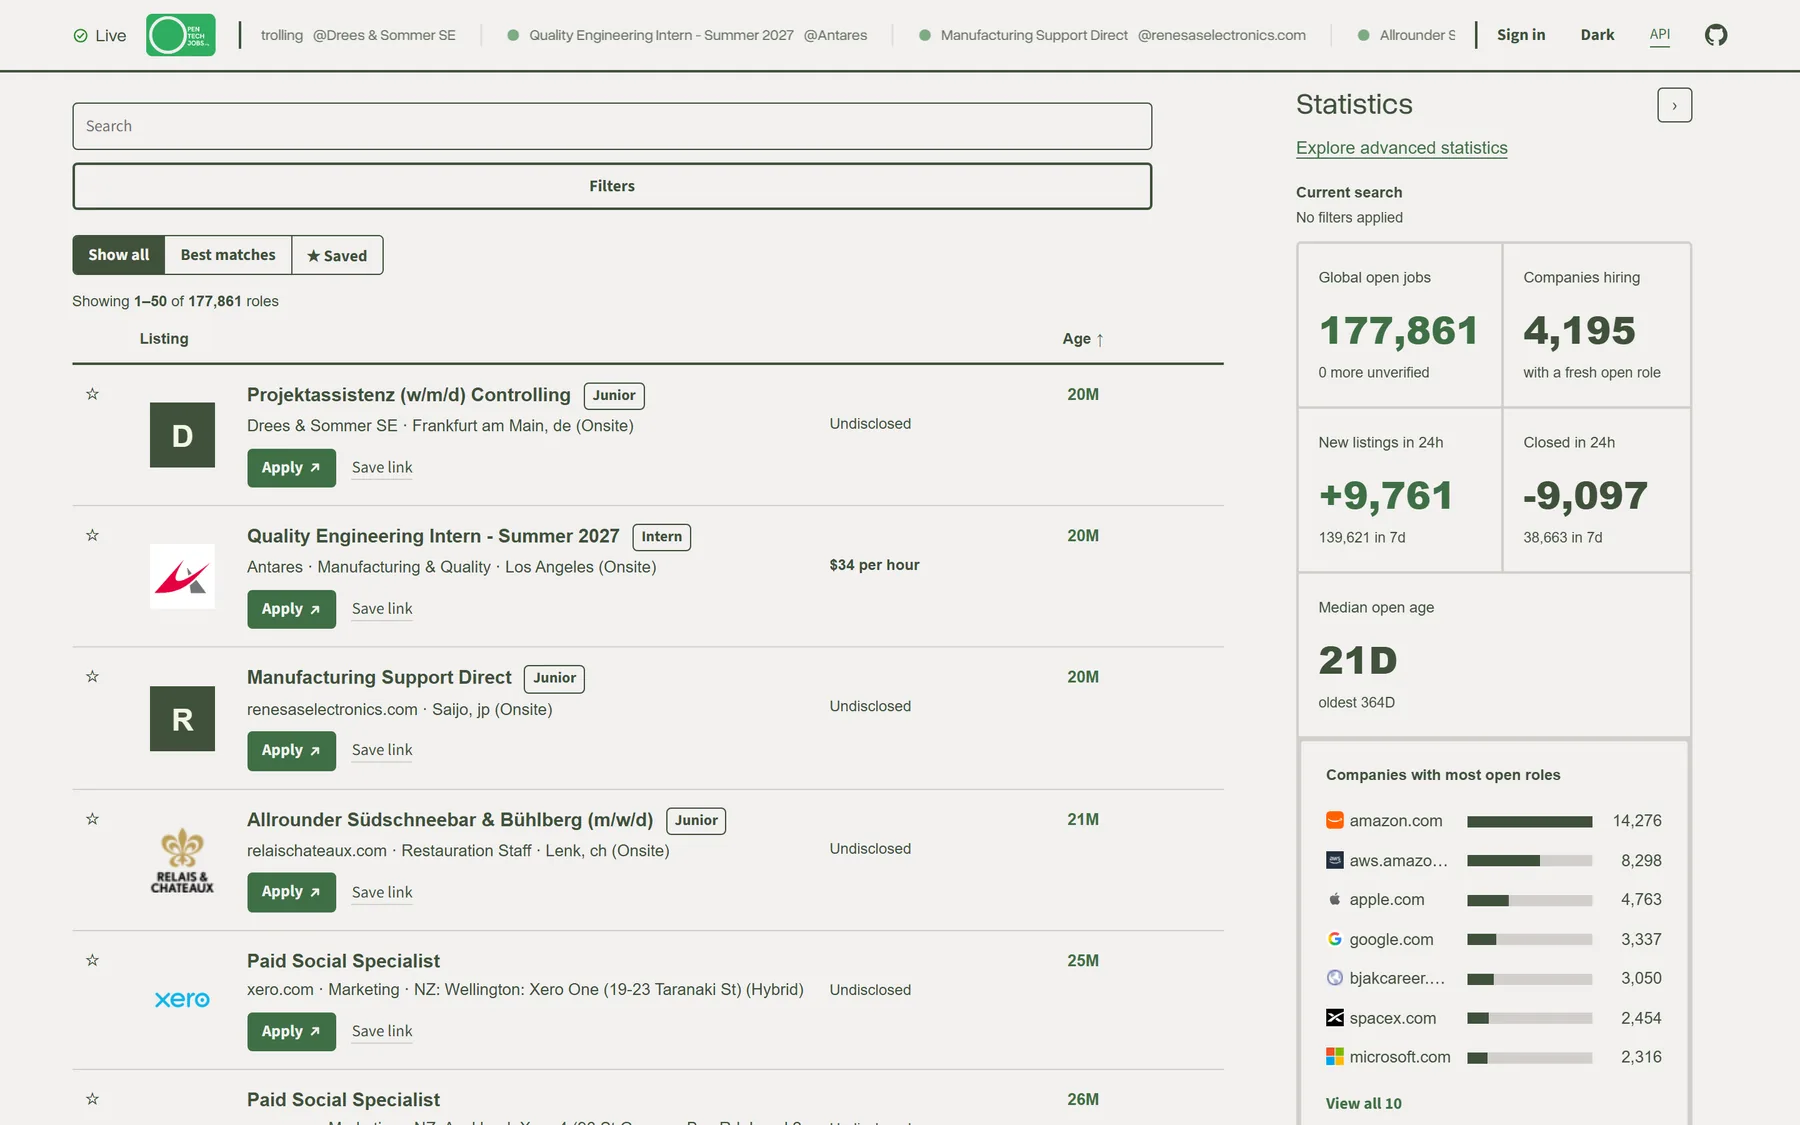
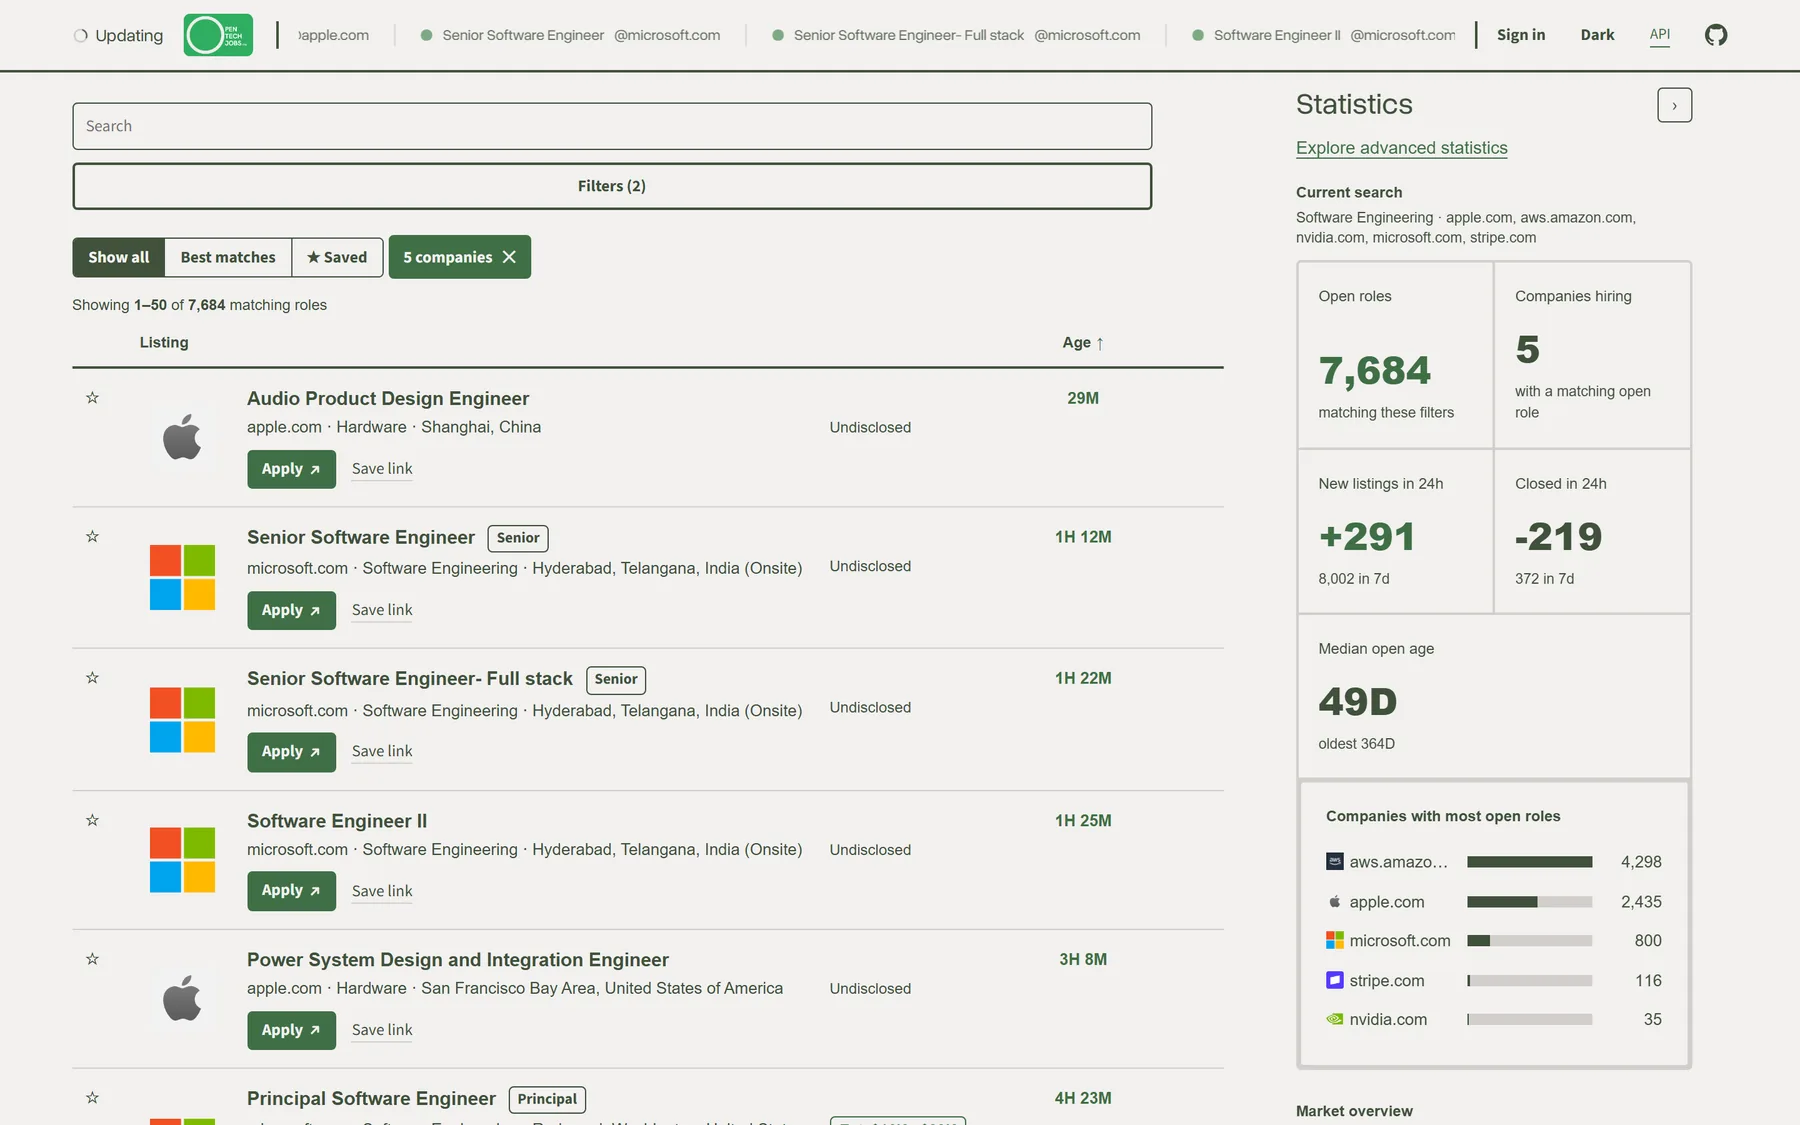
Keep content clear of a phone's cutout, and show real jobs in the shot
Every page now asks for the whole screen (viewport-fit=cover), so the
green band reaches the true edge instead of stopping at the browser's
own inset. --edge is the gutter or the screen's cutout inset, whichever
is wider, and everything that runs to the page edge uses it: the
container, the hero rows and the band's negative margin. The job drawer
and the account sheet pad against the cutout and the home indicator too.
Any phone that reports an inset, not only an iPhone.

The device screenshots were whatever was newest, which turned out to be
Apple retail work. They now show engineering roles at Apple, Microsoft,
AWS, Nvidia and Stripe.

diff --git a/frontend/style.css b/frontend/style.css
@@ -102,6 +102,9 @@
   /* Side padding for .workspace/.container. Scales with viewport
      (20px floor, 64px ceiling) instead of a fixed max-width box. */
   --gutter: clamp(20px, 4vw, 64px);
+  /* The gutter, or the screen's own cutout inset where that is wider.
+     Used by anything whose content runs to the page edge. */
+  --edge: max(var(--gutter), env(safe-area-inset-left), env(safe-area-inset-right));
   --rule: 2px;
 
   /* Forces native chrome (input caret, scrollbars) to follow OUR toggle
@@ -200,7 +203,13 @@ button, input, select {
 }
 
 .container {
-  padding: 0 var(--gutter);
+  /* viewport-fit=cover lets the page reach the true screen edge, so the
+     gutter has to clear the cutout itself: on a notched phone in
+     landscape the inset is larger than the gutter, and in portrait it is
+     zero and this is just the gutter. Any phone with a cutout, not only
+     an iPhone. */
+  padding-left: max(var(--gutter), env(safe-area-inset-left));
+  padding-right: max(var(--gutter), env(safe-area-inset-right));
 }
 
 .section {
@@ -559,6 +568,7 @@ button, input, select {
   border-radius: 4px;
   z-index: 40;
   padding: 14px;
+  padding-bottom: max(14px, env(safe-area-inset-bottom));
   text-transform: none;
   letter-spacing: normal;
   font-family: var(--font);
@@ -1109,6 +1119,8 @@ button, input, select {
   border: 0 solid var(--black);
   border-left-width: var(--rule);
   padding: 20px;
+  padding-right: max(20px, env(safe-area-inset-right));
+  padding-bottom: max(20px, env(safe-area-inset-bottom));
   transform: translateX(100%);
   transition: transform 0.25s ease;
 }
@@ -2249,6 +2261,10 @@ footer {
      covers the viewport, so there is nothing behind it left to dim. */
   .job-detail {
     inset: 0;
+    /* Full screen here, so it meets the left edge as well and clears a
+       cutout on that side too (the desktop rule above covers the other
+       three). */
+    padding-left: max(20px, env(safe-area-inset-left));
     width: 100vw;
     height: 100vh;
     /* dvh: the visible viewport. 100vh on iPhone includes the space under
@@ -3197,7 +3213,7 @@ body.explore-busy .explore-metric { color: var(--green-text); }
   align-items: center;
   justify-content: space-between;
   gap: 16px;
-  padding: 14px var(--gutter) 0;
+  padding: 14px var(--edge) 0;
   font-family: var(--font-display);
   font-size: 13px;
   line-height: 1.3;
@@ -3208,7 +3224,7 @@ body.explore-busy .explore-metric { color: var(--green-text); }
 .hero-nav a + a::before { content: ", "; color: var(--black); }
 
 .hero {
-  padding: 0 var(--gutter);
+  padding: 0 var(--edge);
   container-type: inline-size;
 }
 /* Sized to the hero's own width so the word runs edge to edge the way the
@@ -3241,7 +3257,7 @@ body.explore-busy .explore-metric { color: var(--green-text); }
   padding: calc(var(--band-pad) - 0.16 * var(--ticker-size)) 0 var(--band-pad);
   /* Edge to edge of the screen: the band steps out of the hero's gutter,
      and with nothing to round against, its corners are square. */
-  margin-inline: calc(-1 * var(--gutter));
+  margin-inline: calc(-1 * var(--edge));
   background: var(--green-text);
   color: var(--white);
   overflow: hidden;
@@ -3321,7 +3337,7 @@ body.explore-busy .explore-metric { color: var(--green-text); }
   --board-shot: url("/img/board-desktop-light.webp");
   position: relative;
   overflow: hidden;
-  padding: clamp(56px, 8vw, 120px) var(--gutter) 0;
+  padding: clamp(56px, 8vw, 120px) var(--edge) 0;
   text-align: center;
   background: var(--showcase-bg);
   background-size: cover;
@@ -3406,7 +3422,7 @@ body.explore-busy .explore-metric { color: var(--green-text); }
 }
 
 .hero-features {
-  padding: clamp(56px, 9vw, 140px) var(--gutter) clamp(24px, 4vw, 56px);
+  padding: clamp(56px, 9vw, 140px) var(--edge) clamp(24px, 4vw, 56px);
 }
 .hero-feature {
   display: grid;
@@ -3434,7 +3450,7 @@ body.explore-busy .explore-metric { color: var(--green-text); }
 }
 
 .hero-cta {
-  margin: 0 var(--gutter);
+  margin: 0 var(--edge);
   padding-block: clamp(24px, 4vw, 56px) clamp(56px, 8vw, 120px);
   border-top: var(--rule) solid var(--black);
 }

diff --git a/frontend/index.html b/frontend/index.html
@@ -14,7 +14,7 @@
     gtag('js', new Date());
     gtag('config', 'G-GXP63R1JP1');
   </script>
-  <meta name="viewport" content="width=device-width, initial-scale=1" />
+  <meta name="viewport" content="width=device-width, initial-scale=1, viewport-fit=cover" />
   <title>OpenTechJobs: Tech Job Board</title>
   <meta name="description" content="OpenTechJobs.org: the open-source job board that makes hunting for your next opportunity easy, fast, and transparent." />
   <!-- A link shared without these falls back to whatever a platform's own

diff --git a/frontend/hero.html b/frontend/hero.html
@@ -9,7 +9,7 @@
     gtag('js', new Date());
     gtag('config', 'G-GXP63R1JP1');
   </script>
-  <meta name="viewport" content="width=device-width, initial-scale=1" />
+  <meta name="viewport" content="width=device-width, initial-scale=1, viewport-fit=cover" />
   <title>OpenTechJobs</title>
   <meta name="description" content="Tech job listings read straight from each company's own hiring system, ranked against your CV, with an open API." />
   <!-- Not in the sitemap yet: this page is a draft at /hero. -->

diff --git a/frontend/stats.html b/frontend/stats.html
@@ -14,7 +14,7 @@
     gtag('js', new Date());
     gtag('config', 'G-GXP63R1JP1');
   </script>
-  <meta name="viewport" content="width=device-width, initial-scale=1" />
+  <meta name="viewport" content="width=device-width, initial-scale=1, viewport-fit=cover" />
   <title>OpenTechJobs: Explore</title>
   <meta name="description" content="Ask questions of every listing OpenTechJobs tracks. Pick filters and a grouping, or write SQL. It runs in your browser." />
   <meta property="og:type" content="website" />

diff --git a/frontend/account.html b/frontend/account.html
@@ -14,7 +14,7 @@
     gtag('js', new Date());
     gtag('config', 'G-GXP63R1JP1');
   </script>
-  <meta name="viewport" content="width=device-width, initial-scale=1" />
+  <meta name="viewport" content="width=device-width, initial-scale=1, viewport-fit=cover" />
   <title>OpenTechJobs: Account</title>
   <meta name="description" content="Your saved alerts, the skills you want matched, and what we store about you." />
   <!-- No og: tags and noindex: this page is only meaningful signed in,

diff --git a/frontend/privacy.html b/frontend/privacy.html
@@ -14,7 +14,7 @@
     gtag('js', new Date());
     gtag('config', 'G-GXP63R1JP1');
   </script>
-  <meta name="viewport" content="width=device-width, initial-scale=1" />
+  <meta name="viewport" content="width=device-width, initial-scale=1, viewport-fit=cover" />
   <title>OpenTechJobs.org Privacy Policy</title>
   <meta name="description" content="What OpenTechJobs.org collects, why, and how to remove it." />
   <link rel="icon" type="image/svg+xml" href="favicon.svg" />

diff --git a/frontend/404.html b/frontend/404.html
@@ -9,7 +9,7 @@
     gtag('js', new Date());
     gtag('config', 'G-GXP63R1JP1');
   </script>
-  <meta name="viewport" content="width=device-width, initial-scale=1" />
+  <meta name="viewport" content="width=device-width, initial-scale=1, viewport-fit=cover" />
   <title>Not found | OpenTechJobs</title>
   <meta name="robots" content="noindex" />
   <!-- Every path here is absolute. CloudFront serves this page for any
